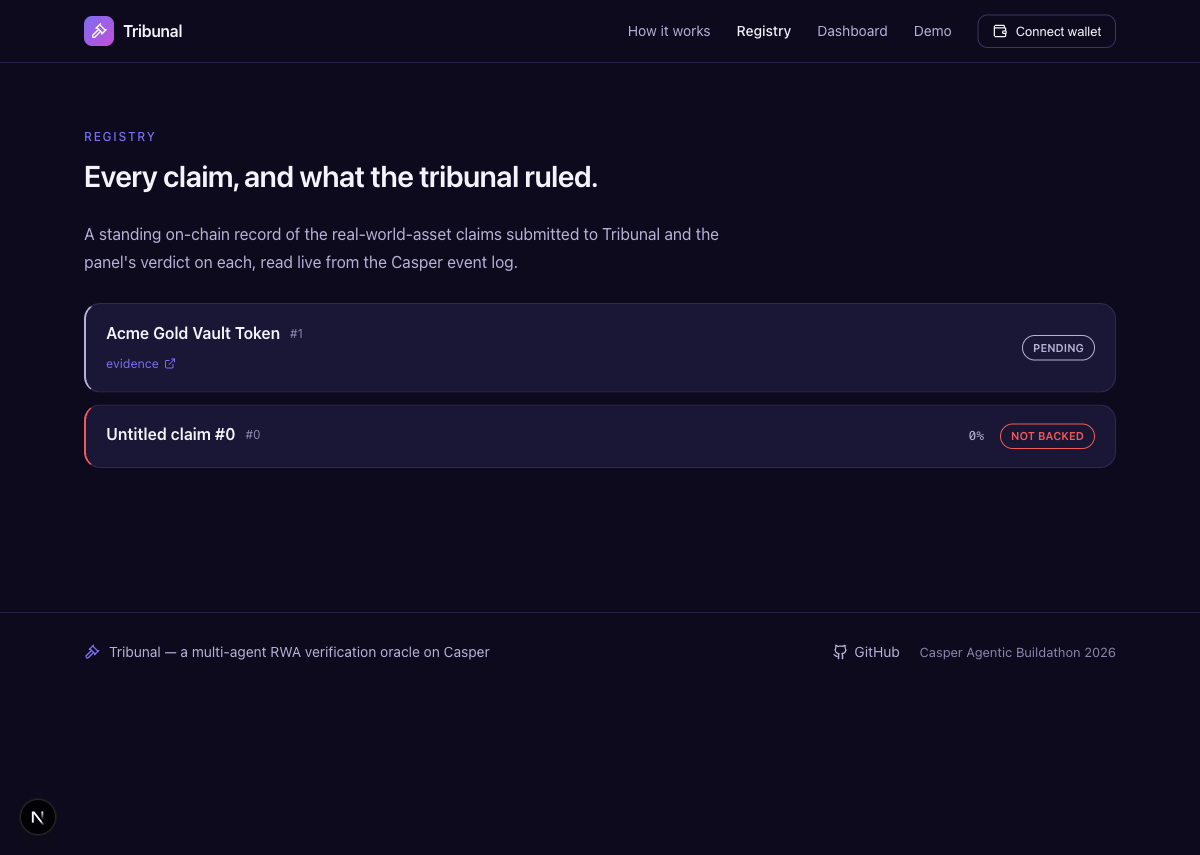
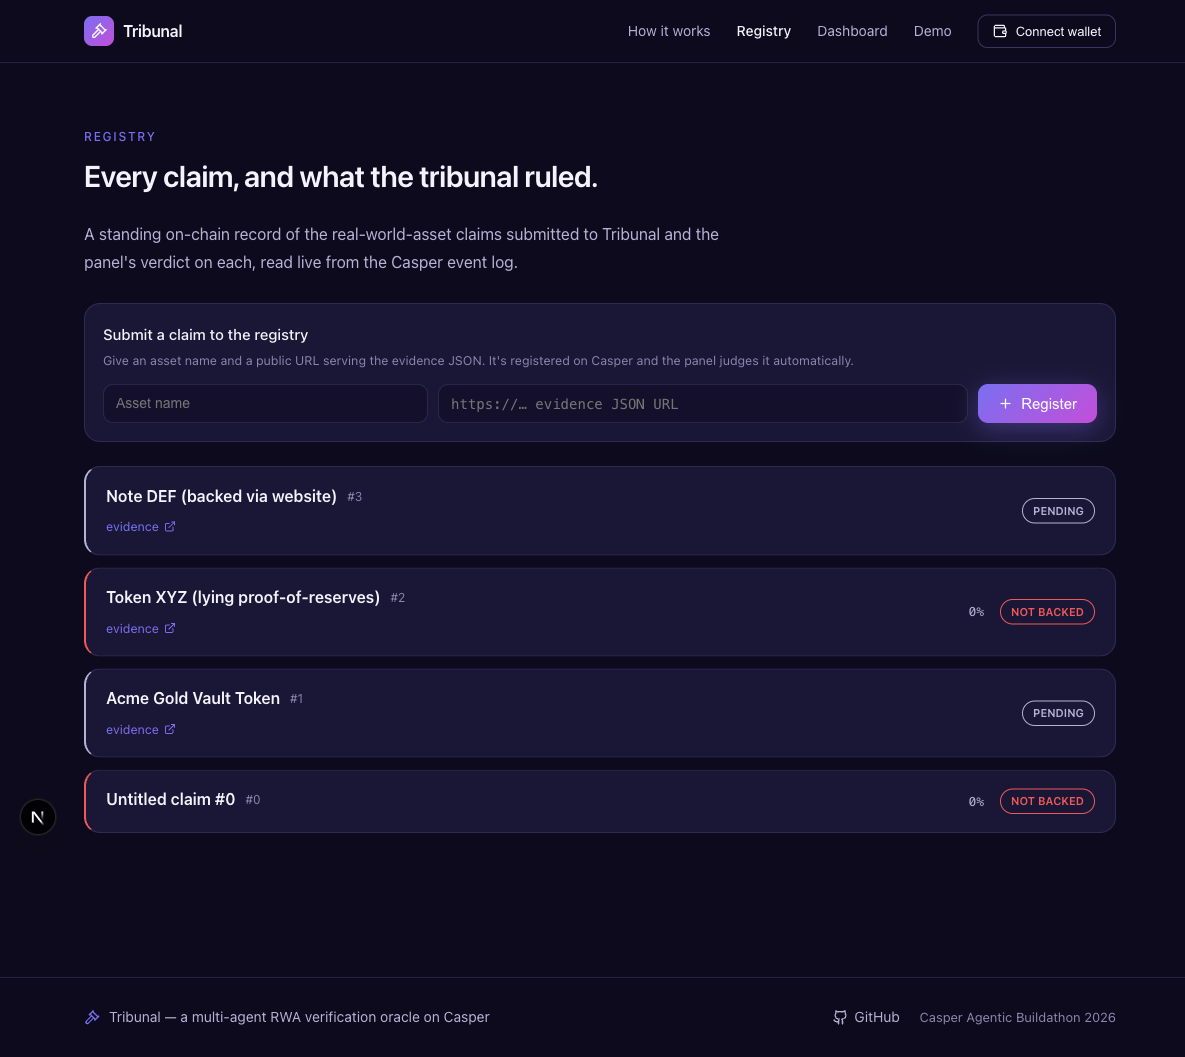
Add the website submit door for the registry
A form on /registry takes an asset name + a public evidence URL, fetches the URL,
hashes it, and registers the claim on-chain via open_claim_with_evidence. The
watcher then judges it automatically. Proven: registered a claim through the form
and it landed in the registry as pending. Closes the loop: submit on the site ->
auto-judged -> shows up with its verdict.

diff --git a/ui/app/registry/page.tsx b/ui/app/registry/page.tsx
@@ -46,7 +46,12 @@ export default function RegistryPage() {
   const [claims, setClaims] = useState<ClaimRecord[] | null>(null);
   const [error, setError] = useState<string | null>(null);
 
-  useEffect(() => {
+  const [asset, setAsset] = useState("");
+  const [evidenceUrl, setEvidenceUrl] = useState("");
+  const [submitting, setSubmitting] = useState(false);
+  const [submitMsg, setSubmitMsg] = useState<{ ok: boolean; text: string } | null>(null);
+
+  function loadClaims() {
     fetch("/api/registry", { cache: "no-store" })
       .then((r) => r.json())
       .then((j) => {
@@ -54,7 +59,34 @@ export default function RegistryPage() {
         setClaims(j.claims);
       })
       .catch((e) => setError((e as Error).message));
+  }
+
+  useEffect(() => {
+    loadClaims();
   }, []);
+
+  async function submit() {
+    if (!asset.trim() || !evidenceUrl.trim()) return;
+    setSubmitting(true);
+    setSubmitMsg(null);
+    try {
+      const r = await fetch("/api/registry/submit", {
+        method: "POST",
+        headers: { "Content-Type": "application/json" },
+        body: JSON.stringify({ asset: asset.trim(), evidenceUrl: evidenceUrl.trim() }),
+      });
+      const j = await r.json();
+      if (j.error) throw new Error(j.error);
+      setSubmitMsg({ ok: true, text: `Registered as claim #${j.claimId}. The watcher will judge it shortly.` });
+      setAsset("");
+      setEvidenceUrl("");
+      setTimeout(loadClaims, 1500);
+    } catch (e) {
+      setSubmitMsg({ ok: false, text: (e as Error).message });
+    } finally {
+      setSubmitting(false);
+    }
+  }
 
   return (
     <main>
@@ -63,6 +95,36 @@ export default function RegistryPage() {
           A standing on-chain record of the real-world-asset claims submitted to Tribunal and the
           panel&apos;s verdict on each, read live from the Casper event log.
         </p>
+
+        <div className="card" style={{ padding: 18, marginBottom: 24 }}>
+          <p style={{ fontWeight: 500, fontSize: 15, marginBottom: 4 }}>Submit a claim to the registry</p>
+          <p className="faint" style={{ fontSize: 12.5, marginBottom: 14 }}>
+            Give an asset name and a public URL serving the evidence JSON. It&apos;s registered on Casper and
+            the panel judges it automatically.
+          </p>
+          <div style={{ display: "flex", gap: 10, flexWrap: "wrap" }}>
+            <input
+              value={asset}
+              onChange={(e) => setAsset(e.target.value)}
+              placeholder="Asset name"
+              disabled={submitting}
+              style={{ flex: "1 1 200px", background: "var(--bg-1)", color: "var(--text)", border: "1px solid var(--border)", borderRadius: "var(--radius)", padding: "10px 12px", fontSize: 14 }}
+            />
+            <input
+              value={evidenceUrl}
+              onChange={(e) => setEvidenceUrl(e.target.value)}
+              placeholder="https://… evidence JSON URL"
+              disabled={submitting}
+              style={{ flex: "2 1 280px", background: "var(--bg-1)", color: "var(--text)", border: "1px solid var(--border)", borderRadius: "var(--radius)", padding: "10px 12px", fontSize: 14, fontFamily: "var(--font-mono)" }}
+            />
+            <button className="btn btn-primary" onClick={submit} disabled={submitting}>
+              {submitting ? <><Icon name="loader" size={15} color="#fff" className="spin" /> Registering…</> : <><Icon name="plus" size={15} color="#fff" /> Register</>}
+            </button>
+          </div>
+          {submitMsg && (
+            <p style={{ fontSize: 13, marginTop: 12, color: submitMsg.ok ? "var(--pass)" : "var(--fail)" }}>{submitMsg.text}</p>
+          )}
+        </div>
 
         {error && (
           <div className="card" style={{ padding: 18, borderColor: "var(--fail)" }}>

diff --git a/ui/app/api/registry/submit/route.ts b/ui/app/api/registry/submit/route.ts
@@ -1,0 +1,43 @@
+import { NextResponse } from "next/server";
+import crypto from "node:crypto";
+import { openClaimWithEvidence } from "../../../../../orchestrator/src/casper.js";
+import { confirm, claimIdFromOpen } from "../../../../../orchestrator/src/chainread.js";
+
+export const runtime = "nodejs";
+export const dynamic = "force-dynamic";
+export const maxDuration = 120;
+
+// POST /api/registry/submit { asset, evidenceUrl }
+// Fetches the evidence URL, hashes it, and registers the claim on-chain. The
+// watcher then picks it up and judges it. The evidence stays at the user's URL;
+// we only commit the asset, the URL, and the hash.
+export async function POST(req: Request) {
+  try {
+    const { asset, evidenceUrl } = (await req.json()) as { asset?: string; evidenceUrl?: string };
+    if (!asset || !evidenceUrl) {
+      return NextResponse.json({ error: "asset and evidenceUrl are required" }, { status: 400 });
+    }
+
+    let text: string;
+    try {
+      const res = await fetch(evidenceUrl);
+      if (!res.ok) throw new Error(`evidence URL returned ${res.status}`);
+      text = await res.text();
+    } catch (e) {
+      return NextResponse.json({ error: `couldn't fetch the evidence URL: ${(e as Error).message}` }, { status: 400 });
+    }
+    try {
+      JSON.parse(text);
+    } catch {
+      return NextResponse.json({ error: "the evidence URL must serve JSON" }, { status: 400 });
+    }
+
+    const hash = crypto.createHash("sha256").update(text).digest("hex");
+    const tx = await openClaimWithEvidence(asset, evidenceUrl, hash);
+    const info = await confirm(tx);
+    const claimId = claimIdFromOpen(info);
+    return NextResponse.json({ claimId, tx });
+  } catch (e) {
+    return NextResponse.json({ error: (e as Error).message ?? "failed to register claim" }, { status: 500 });
+  }
+}

diff --git a/ui/components/Icon.tsx b/ui/components/Icon.tsx
@@ -19,6 +19,7 @@ import {
   Search,
   ShieldAlert,
   RefreshCw,
+  Plus,
   type LucideIcon,
 } from "lucide-react";
 
@@ -43,6 +44,7 @@ const MAP: Record<string, LucideIcon> = {
   search: Search,
   "shield-alert": ShieldAlert,
   refresh: RefreshCw,
+  plus: Plus,
 };
 
 export function Icon({